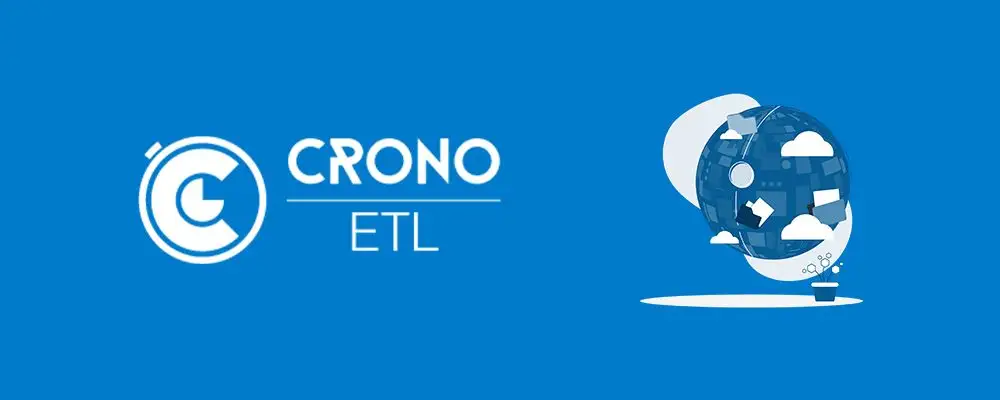
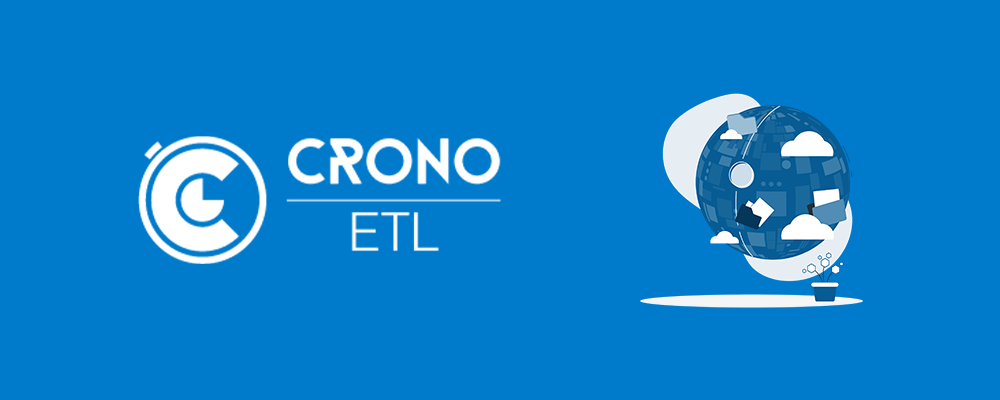
Cambiadas imágenes headers

diff --git a/src/.vuepress/config.js b/src/.vuepress/config.js
@@ -3,7 +3,7 @@ const { description } = require('../../package')
 const sidebar =require ('./public/sidebar.json')
 
 module.exports = {
-  title: 'Crono Manuales',
+  title: 'Manual de usuario',
   description: description,
   head: [
     ['meta', { name: 'theme-color', content: '#007bcc' }],
